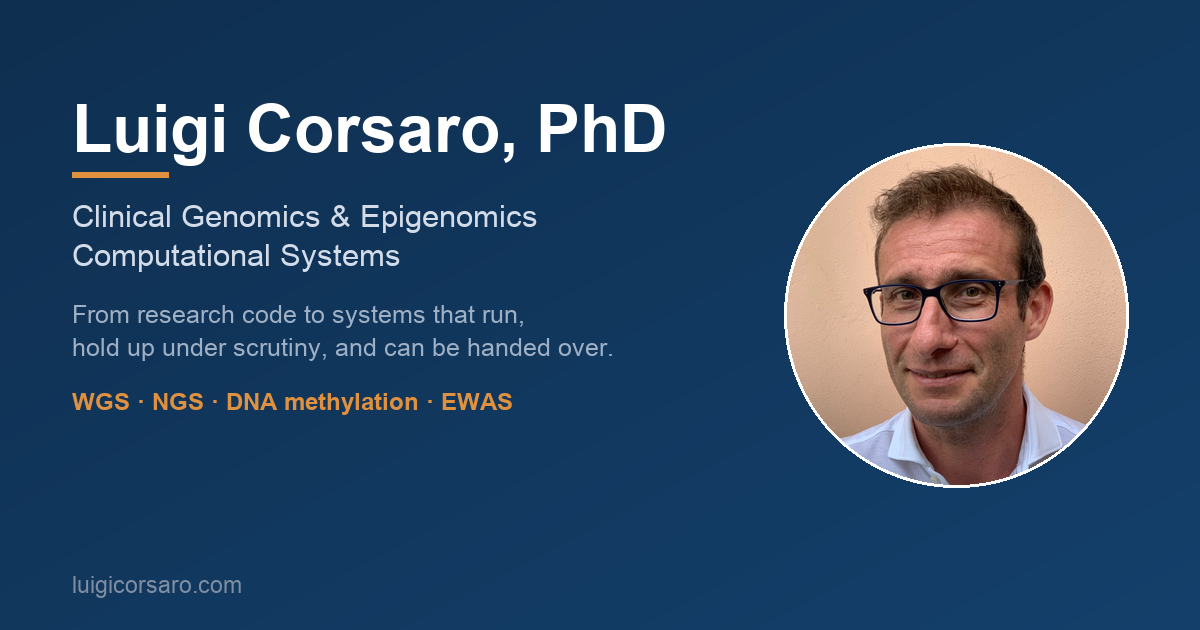
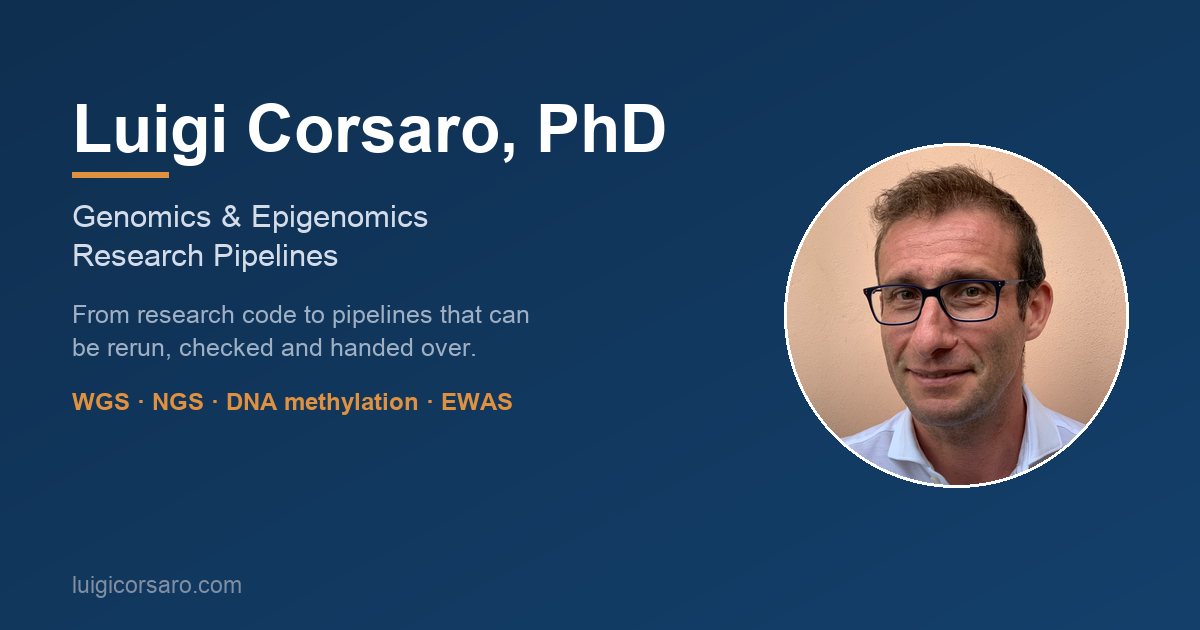
Landing: reposition around reproducible research pipelines
Align the title, hero, offers, structured data, llms.txt, the Open Graph
card and the Venn diagram with the current focus: making genomics and
epigenomics research pipelines reproducible, tested and documented.

diff --git a/index.html b/index.html
@@ -4,23 +4,23 @@
 <meta charset="utf-8">
 <meta name="viewport" content="width=device-width, initial-scale=1">
 <meta name="color-scheme" content="light dark">
-<title>Luigi Corsaro, PhD · Computational Systems for Clinical Genomics &amp; Epigenomics</title>
-<meta name="description" content="I engineer reliable computational systems for clinical genomics and epigenomics: from research code to reproducible, validated and audit-ready production. A PhD in Genomic Data Science combined with 30 years of risk-critical systems engineering.">
+<title>Luigi Corsaro, PhD · Reproducible Research Pipelines for Genomics &amp; Epigenomics</title>
+<meta name="description" content="I make genomics and epigenomics research pipelines reproducible, tested and documented. A PhD in Genomic Data Science combined with 30 years of production software engineering in risk-critical systems.">
 <link rel="canonical" href="https://luigicorsaro.com/">
 <meta name="author" content="Luigi Corsaro">
 <meta name="robots" content="index, follow, max-image-preview:large">
 <meta property="og:type" content="profile">
 <meta property="og:site_name" content="Luigi Corsaro, PhD">
-<meta property="og:title" content="Luigi Corsaro, PhD · Computational Systems for Clinical Genomics &amp; Epigenomics">
-<meta property="og:description" content="From research code to systems that run, hold up under scrutiny, and can be handed over: reproducible, validated genomics and epigenomics. A PhD in Genomic Data Science with 30 years of risk-critical systems engineering.">
+<meta property="og:title" content="Luigi Corsaro, PhD · Reproducible Research Pipelines for Genomics &amp; Epigenomics">
+<meta property="og:description" content="From research code to pipelines that can be rerun, checked and handed over: reproducible genomics and epigenomics research. A PhD in Genomic Data Science with 30 years of risk-critical systems engineering.">
 <meta property="og:url" content="https://luigicorsaro.com/">
 <meta property="og:image" content="https://luigicorsaro.com/og-card.png">
 <meta property="og:locale" content="en_US">
 <meta property="profile:first_name" content="Luigi">
 <meta property="profile:last_name" content="Corsaro">
 <meta name="twitter:card" content="summary_large_image">
-<meta name="twitter:title" content="Luigi Corsaro, PhD · Computational Systems for Clinical Genomics &amp; Epigenomics">
-<meta name="twitter:description" content="From research code to reproducible, validated genomics and epigenomics systems that run, hold up under scrutiny, and can be handed over.">
+<meta name="twitter:title" content="Luigi Corsaro, PhD · Reproducible Research Pipelines for Genomics &amp; Epigenomics">
+<meta name="twitter:description" content="From research code to pipelines that can be rerun, checked and handed over: reproducible genomics and epigenomics research.">
 <meta name="twitter:image" content="https://luigicorsaro.com/og-card.png">
 <script type="application/ld+json">
 {
@@ -28,15 +28,15 @@
   "@type": "Person",
   "name": "Luigi Corsaro",
   "honorificSuffix": "PhD",
-  "jobTitle": "Computational Systems Engineer for Clinical Genomics and Epigenomics",
-  "description": "Turns clinical genomics and epigenomics research code into reproducible, validated and audit-ready computational systems. PhD in Genomic Data Science with 30 years of risk-critical systems engineering.",
+  "jobTitle": "Computational Systems Engineer for Genomics and Epigenomics Research",
+  "description": "Makes genomics and epigenomics research pipelines reproducible, tested and documented. PhD in Genomic Data Science with 30 years of production software engineering in risk-critical systems.",
   "url": "https://luigicorsaro.com/",
   "image": "https://luigicorsaro.com/luigi.jpg",
   "email": "lcorsaro69@gmail.com",
   "homeLocation": { "@type": "Place", "name": "Milan, Italy" },
   "alumniOf": { "@type": "CollegeOrUniversity", "name": "University of Pavia" },
   "knowsAbout": [
-    "Clinical genomics",
+    "Genomics",
     "Epigenomics",
     "DNA methylation",
     "Epigenome-wide association studies (EWAS)",
@@ -139,8 +139,8 @@
       <a class="cta" href="https://cal.com/luigi-corsaro" target="_blank" rel="noopener">Book a call</a>
     </nav>
     <h1>Luigi Corsaro, PhD</h1>
-    <div class="role">Clinical Genomics &amp; Epigenomics · Computational Systems</div>
-    <div class="tag">From research code to systems that run, hold up under scrutiny, and can be handed over: WGS, NGS, DNA methylation, EWAS · Remote, worldwide</div>
+    <div class="role">Genomics &amp; Epigenomics · Research Pipelines</div>
+    <div class="tag">From research code to pipelines that can be rerun, checked and handed over: WGS, NGS, DNA methylation, EWAS · Remote, worldwide</div>
     <div class="links">
       <a href="mailto:lcorsaro69@gmail.com">Email</a>
       <a href="https://www.linkedin.com/in/luigicorsaro">LinkedIn</a>
@@ -153,10 +153,9 @@
 
 <section>
   <div class="wrap">
-    <p class="lead">Clinical genomics and epigenomics teams often have analysis that works in
-    research, but isn't reproducible, validated, or ready to be audited and handed over. Closing
-    that gap is what I do: taking sequencing and DNA-methylation work from research code to a
-    computational system that runs in production and holds up under scrutiny. What I bring to it:
+    <p class="lead">Genomics and epigenomics research teams often have analysis that works once, on
+    one machine, but can't be rerun, checked or handed over. Closing that gap is what I do: making
+    sequencing and DNA-methylation research code reproducible, tested and documented. What I bring to it:
     <strong>30 years engineering risk-critical, regulated systems</strong>, a
     <strong>PhD in Genomic Data Science</strong>, and <strong>first-author epigenetics research</strong>,
     put to work alongside a team of specialists (clinicians, wet-lab scientists, bioinformaticians),
@@ -181,7 +180,7 @@
     <h2>You may need me if&hellip;</h2>
     <div class="pillars">
       <div class="card"><h3>Your pipeline works, but only one person knows how</h3><p>The workflow leans on undocumented assumptions, local environments and knowledge that lives only with its original author.</p></div>
-      <div class="card"><h3>Your research code needs to become a system</h3><p>The scientific method is established; the implementation still needs reproducibility, dependency management, validation and documentation.</p></div>
+      <div class="card"><h3>Your research code needs to become a robust pipeline</h3><p>The scientific method is established; the implementation still needs reproducibility, dependency management, testing and documentation.</p></div>
       <div class="card"><h3>Your team has the expertise, but nobody owns the interfaces</h3><p>Clinicians, wet-lab scientists, bioinformaticians and engineers each contribute, but the computational system as a whole has no technical owner.</p></div>
     </div>
   </div>
@@ -191,9 +190,9 @@
   <div class="wrap">
     <h2>How I can help</h2>
     <div class="pillars">
-      <div class="card"><h3>Reliability, validation &amp; audit-readiness</h3><p>Reproducibility, traceability, quality control and audit-readiness for genomics and methylation systems.</p></div>
-      <div class="card"><h3>From research code to production systems</h3><p>Turning analysis code into modular, documented and containerised systems for WGS, NGS and EWAS.</p></div>
-      <div class="card"><h3>Fractional technical lead</h3><p>Making a multi-disciplinary team deliver: architecture, validation strategy, mentoring and handover.</p></div>
+      <div class="card"><h3>Reliability &amp; traceability</h3><p>Reproducibility, traceability and quality control for genomics and methylation research pipelines.</p></div>
+      <div class="card"><h3>From research code to robust pipelines</h3><p>Turning analysis code into modular, documented and containerised pipelines for WGS, NGS and EWAS.</p></div>
+      <div class="card"><h3>Fractional technical lead</h3><p>Making a multi-disciplinary team deliver: architecture, testing strategy, mentoring and handover.</p></div>
       <div class="card wide"><h3>Coaching &amp; knowledge transfer</h3><p>Adjunct lecturer at ITS Angelo Rizzoli for four years: descriptive statistics, statistical models and Python. The same coaching brought to your team: upskilling and handover so the work outlives the engagement.</p></div>
     </div>
   </div>
@@ -313,7 +312,7 @@
       <details class="skill" data-skill="R"><summary>R</summary><div class="detail">SEMseeker and analysis pipelines; also taught at ITS Angelo Rizzoli.</div></details>
       <details class="skill" data-skill="Python"><summary>Python</summary><div class="detail">Analysis pipelines and tooling; taught Python at ITS Angelo Rizzoli.</div></details>
       <details class="skill" data-skill="Docker"><summary>Docker</summary><div class="detail">Containerised, reproducible genomics workflows that run the same everywhere.</div></details>
-      <details class="skill" data-skill="Reproducible pipelines"><summary>Reproducible pipelines</summary><div class="detail">Turning research code into validated, audit-ready systems: reproducibility, quality control and provenance.</div></details>
+      <details class="skill" data-skill="Reproducible pipelines"><summary>Reproducible pipelines</summary><div class="detail">Turning research code into tested, documented pipelines: reproducibility, quality control and provenance.</div></details>
       <details class="skill" data-skill="Statistics"><summary>Statistics</summary><div class="detail">Descriptive statistics and statistical models; four years as an adjunct lecturer.</div></details>
     </div>
   </div>

diff --git a/projects.html b/projects.html
@@ -78,7 +78,7 @@
 <section>
   <div class="wrap">
     <h2>Flagship projects</h2>
-    <p class="sub">The work that best demonstrates the crossover between clinical genomics research and production-grade engineering.</p>
+    <p class="sub">The work that best demonstrates the crossover between genomics research and software engineering.</p>
 
     <div class="item">
       <h3>SEMseeker</h3>
